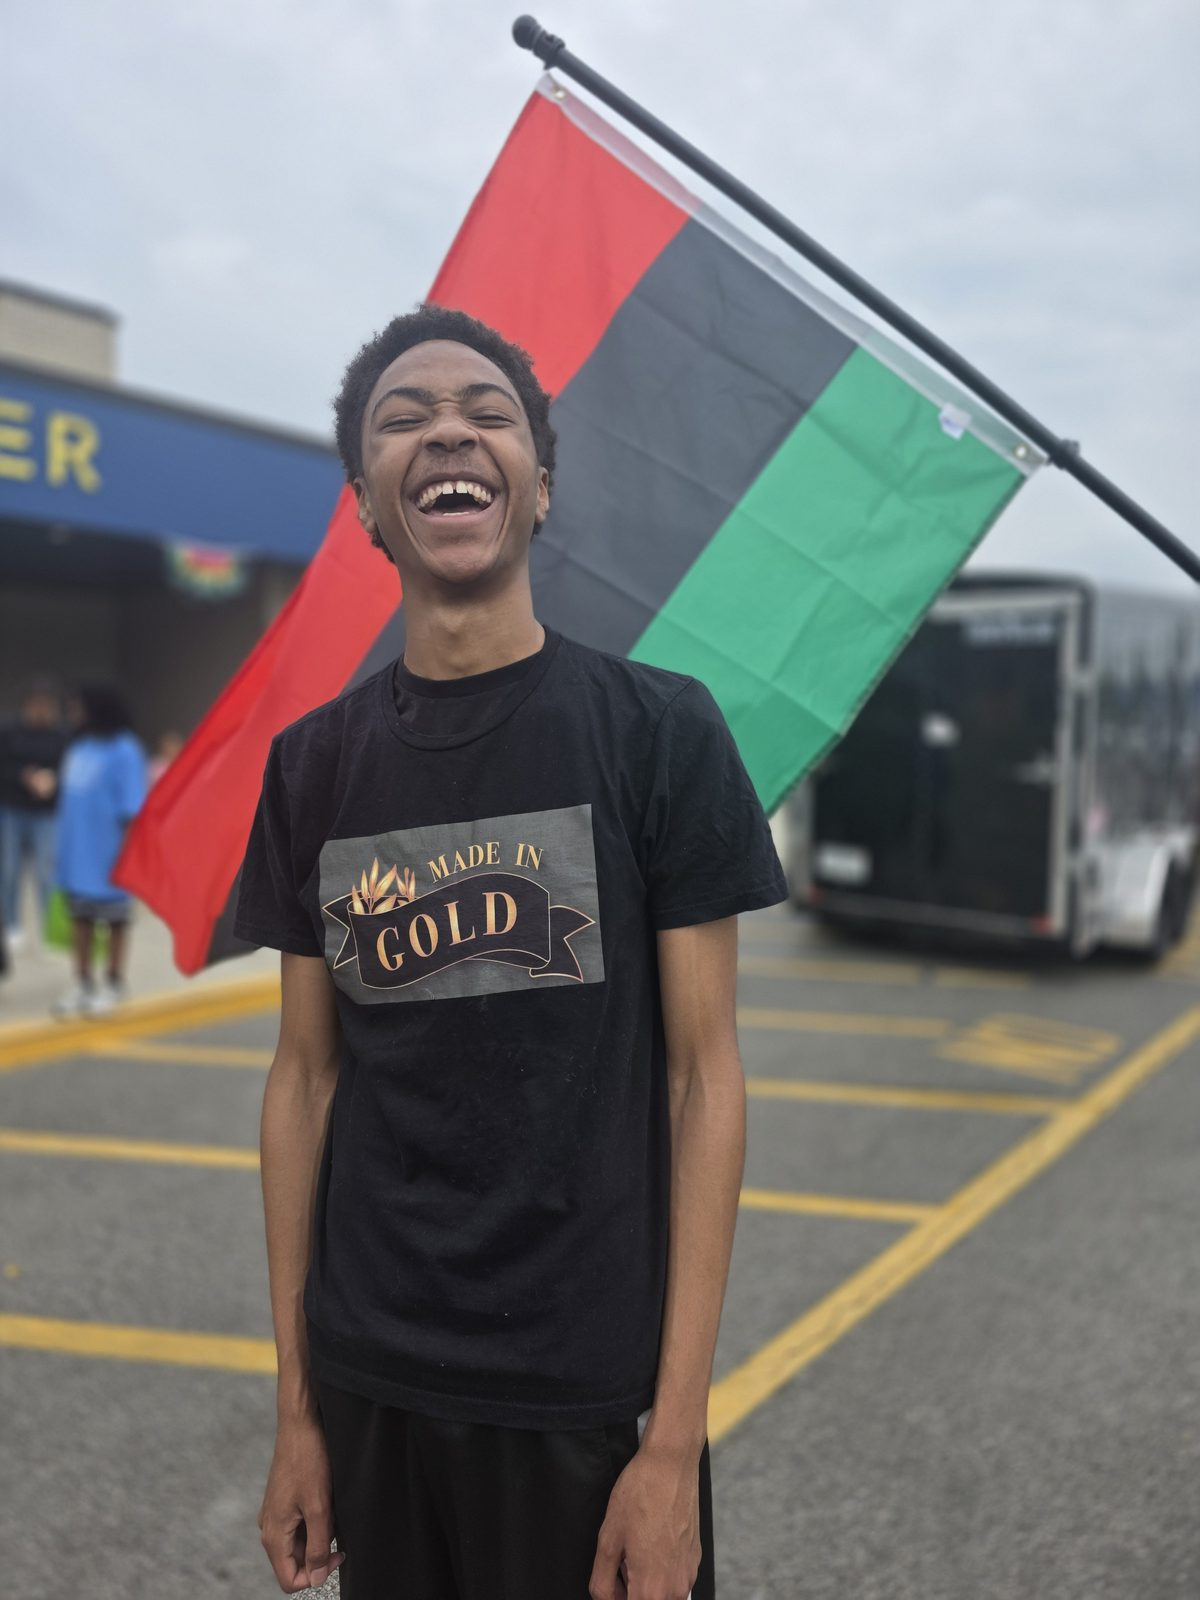
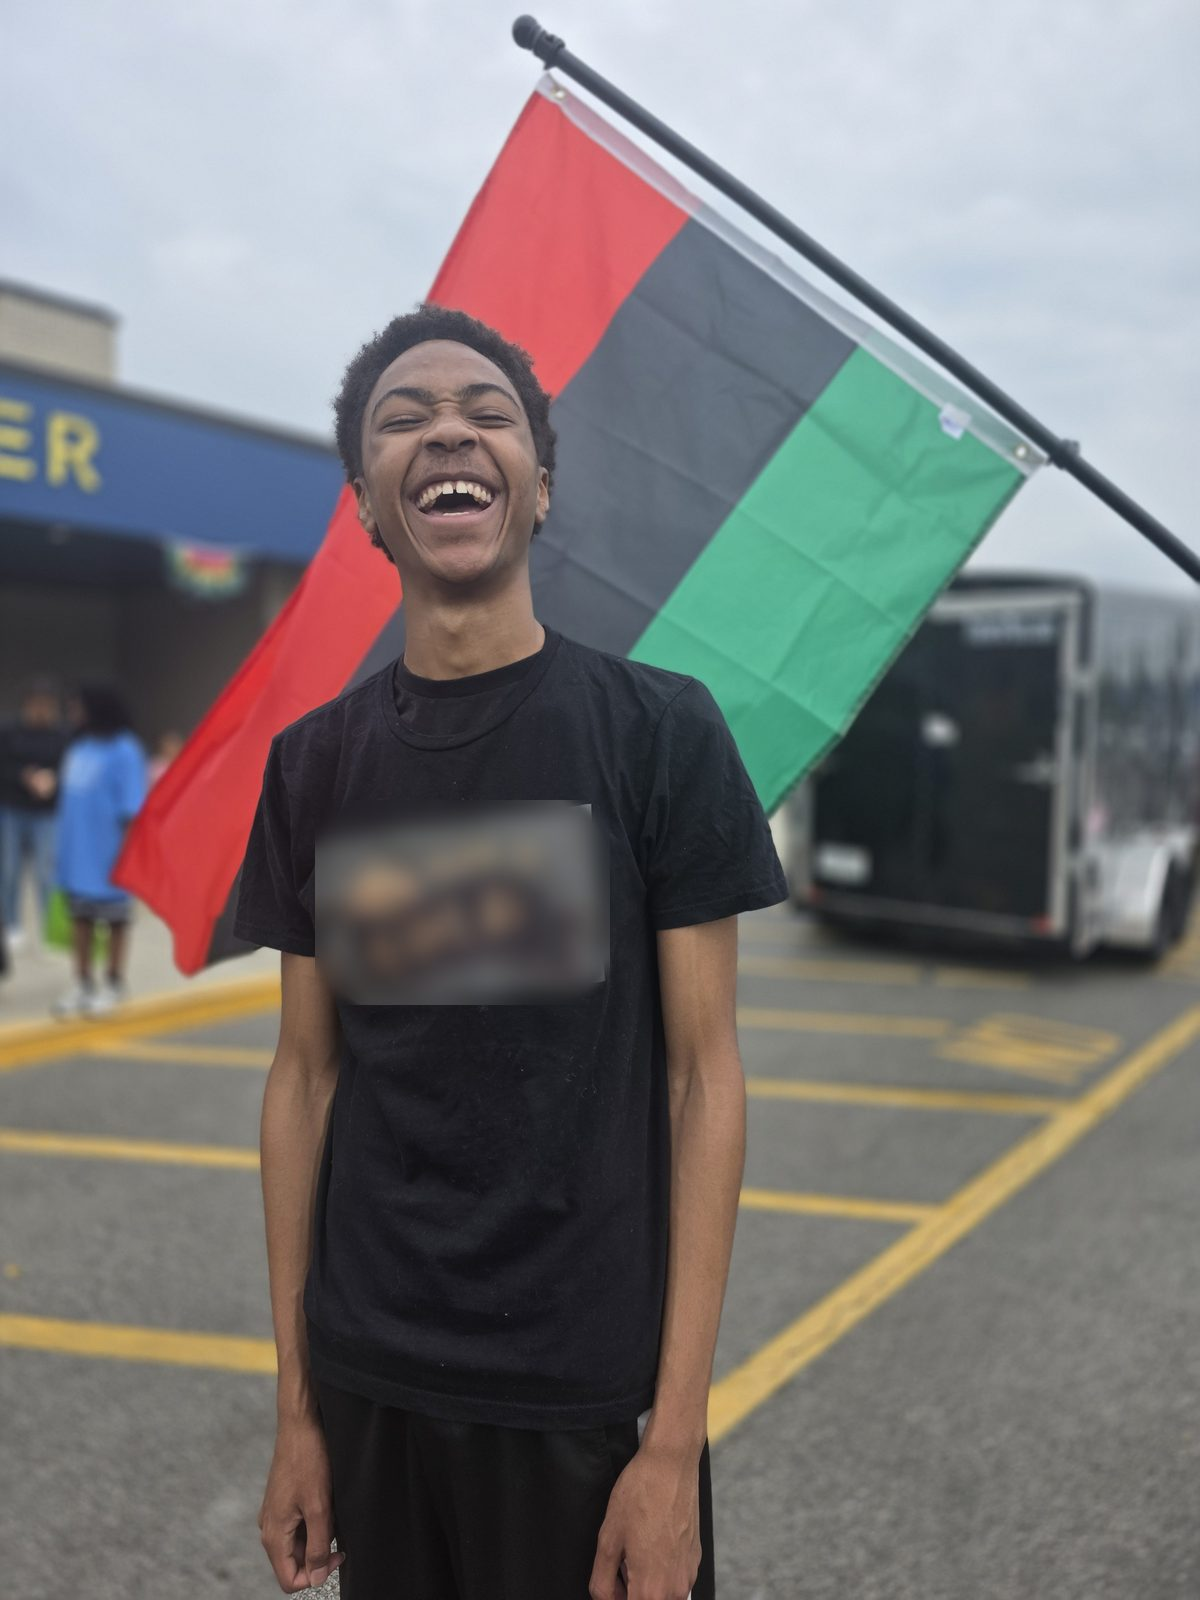
Blur Made In Gold branding in photos and remove it from captions
Blurs the logo, scholarship line and signature line on the checks and the
T-shirt print; renames the scholarship photo files and updates captions.

Claude-Session: https://claude.ai/code/session_01QL3bwXHwYA5p9caSkjAvpC

Changed region(s): [[0.2467, 0.5, 0.5242, 0.625]]

diff --git a/index.html b/index.html
@@ -130,61 +130,61 @@
         </div>
         <div class="album">
           <div class="album-head reveal">
-            <h3>Made In Gold Scholarship presentation</h3>
+            <h3>Scholarship presentation</h3>
             <p>May 15, 2026 · A $1,000 scholarship presented to a KIPP Indy Class of 2026 graduate.</p>
           </div>
           <div class="gallery">
             <figure class="g-item g-feature reveal">
-              <button type="button" class="g-open" aria-label="Enlarge photo: Celebrating the $1,000 Made In Gold Scholarship">
-                <img src="assets/gallery/mig-laughing.jpg" alt="A graduate laughs while holding a large $1,000 Made In Gold Scholarship check beside the presenter" width="1600" height="1200" loading="lazy">
+              <button type="button" class="g-open" aria-label="Enlarge photo: Celebrating a $1,000 scholarship">
+                <img src="assets/gallery/scholarship-laughing.jpg" alt="A graduate laughs while holding a large $1,000 scholarship check beside the presenter" width="1600" height="1200" loading="lazy">
               </button>
-              <figcaption>Celebrating the $1,000 Made In Gold Scholarship</figcaption>
+              <figcaption>Celebrating a $1,000 scholarship</figcaption>
             </figure>
             <figure class="g-item reveal">
               <button type="button" class="g-open" aria-label="Enlarge photo: Announcing the scholarship in the gym">
-                <img src="assets/gallery/mig-presentation.jpg" alt="The presenter speaks into a microphone in a school gym while the graduate holds the scholarship check" width="1600" height="1200" loading="lazy">
+                <img src="assets/gallery/scholarship-presentation.jpg" alt="The presenter speaks into a microphone in a school gym while the graduate holds the scholarship check" width="1600" height="1200" loading="lazy">
               </button>
               <figcaption>Announcing the scholarship in the gym</figcaption>
             </figure>
             <figure class="g-item reveal">
               <button type="button" class="g-open" aria-label="Enlarge photo: Students and family cheer the announcement">
-                <img src="assets/gallery/mig-celebration.jpg" alt="The presenter raises the large check as students and family cheer and take photos" width="1600" height="1200" loading="lazy">
+                <img src="assets/gallery/scholarship-celebration.jpg" alt="The presenter raises the large check as students and family cheer and take photos" width="1600" height="1200" loading="lazy">
               </button>
               <figcaption>Students and family cheer the announcement</figcaption>
             </figure>
             <figure class="g-item reveal">
               <button type="button" class="g-open" aria-label="Enlarge photo: The big reveal">
-                <img src="assets/gallery/mig-announcement.jpg" alt="The presenter speaks into a microphone as the graduate looks at the check" width="1600" height="1200" loading="lazy">
+                <img src="assets/gallery/scholarship-announcement.jpg" alt="The presenter speaks into a microphone as the graduate looks at the check" width="1600" height="1200" loading="lazy">
               </button>
               <figcaption>The big reveal</figcaption>
             </figure>
             <figure class="g-item reveal">
               <button type="button" class="g-open" aria-label="Enlarge photo: A proud moment">
-                <img src="assets/gallery/mig-portrait.jpg" alt="The graduate and presenter smile together with the scholarship check" width="1200" height="1600" loading="lazy">
+                <img src="assets/gallery/scholarship-portrait.jpg" alt="The graduate and presenter smile together with the scholarship check" width="1200" height="1600" loading="lazy">
               </button>
               <figcaption>A proud moment</figcaption>
             </figure>
             <figure class="g-item reveal">
               <button type="button" class="g-open" aria-label="Enlarge photo: Presenting the $1,000 check">
-                <img src="assets/gallery/mig-check.jpg" alt="The graduate and presenter hold the scholarship check in front of a blue curtain" width="1200" height="1600" loading="lazy">
+                <img src="assets/gallery/scholarship-check.jpg" alt="The graduate and presenter hold the scholarship check in front of a blue curtain" width="1200" height="1600" loading="lazy">
               </button>
               <figcaption>Presenting the $1,000 check</figcaption>
             </figure>
             <figure class="g-item reveal">
               <button type="button" class="g-open" aria-label="Enlarge photo: Celebrating at KIPP Indy">
-                <img src="assets/gallery/mig-kipp-indy.jpg" alt="The graduate and presenter pose with the check under a KIPP Indy sign and a signed seniors banner" width="1492" height="1600" loading="lazy">
+                <img src="assets/gallery/scholarship-kipp-indy.jpg" alt="The graduate and presenter pose with the check under a KIPP Indy sign and a signed seniors banner" width="1492" height="1600" loading="lazy">
               </button>
               <figcaption>Celebrating at KIPP Indy</figcaption>
             </figure>
             <figure class="g-item reveal">
               <button type="button" class="g-open" aria-label="Enlarge photo: A congratulatory handshake">
-                <img src="assets/gallery/mig-handshake.jpg" alt="The graduate and presenter shake hands in front of a Class of 2026 seniors banner" width="1333" height="1600" loading="lazy">
+                <img src="assets/gallery/scholarship-handshake.jpg" alt="The graduate and presenter shake hands in front of a Class of 2026 seniors banner" width="1333" height="1600" loading="lazy">
               </button>
               <figcaption>A congratulatory handshake</figcaption>
             </figure>
             <figure class="g-item reveal">
               <button type="button" class="g-open" aria-label="Enlarge photo: Until I succeed!">
-                <img src="assets/gallery/mig-hug.jpg" alt="The graduate and presenter share a hug in front of the seniors banner" width="1200" height="1600" loading="lazy">
+                <img src="assets/gallery/scholarship-hug.jpg" alt="The graduate and presenter share a hug in front of the seniors banner" width="1200" height="1600" loading="lazy">
               </button>
               <figcaption>Until I succeed!</figcaption>
             </figure>
@@ -254,7 +254,7 @@
             </figure>
             <figure class="g-item reveal">
               <button type="button" class="g-open" aria-label="Enlarge photo: Joy at a community celebration">
-                <img src="assets/gallery/community-flag.jpg" alt="A student in a Made In Gold T-shirt laughs in front of a red, black and green flag" width="1200" height="1600" loading="lazy">
+                <img src="assets/gallery/community-flag.jpg" alt="A student in a black T-shirt laughs in front of a red, black and green flag" width="1200" height="1600" loading="lazy">
               </button>
               <figcaption>Joy at a community celebration</figcaption>
             </figure>
